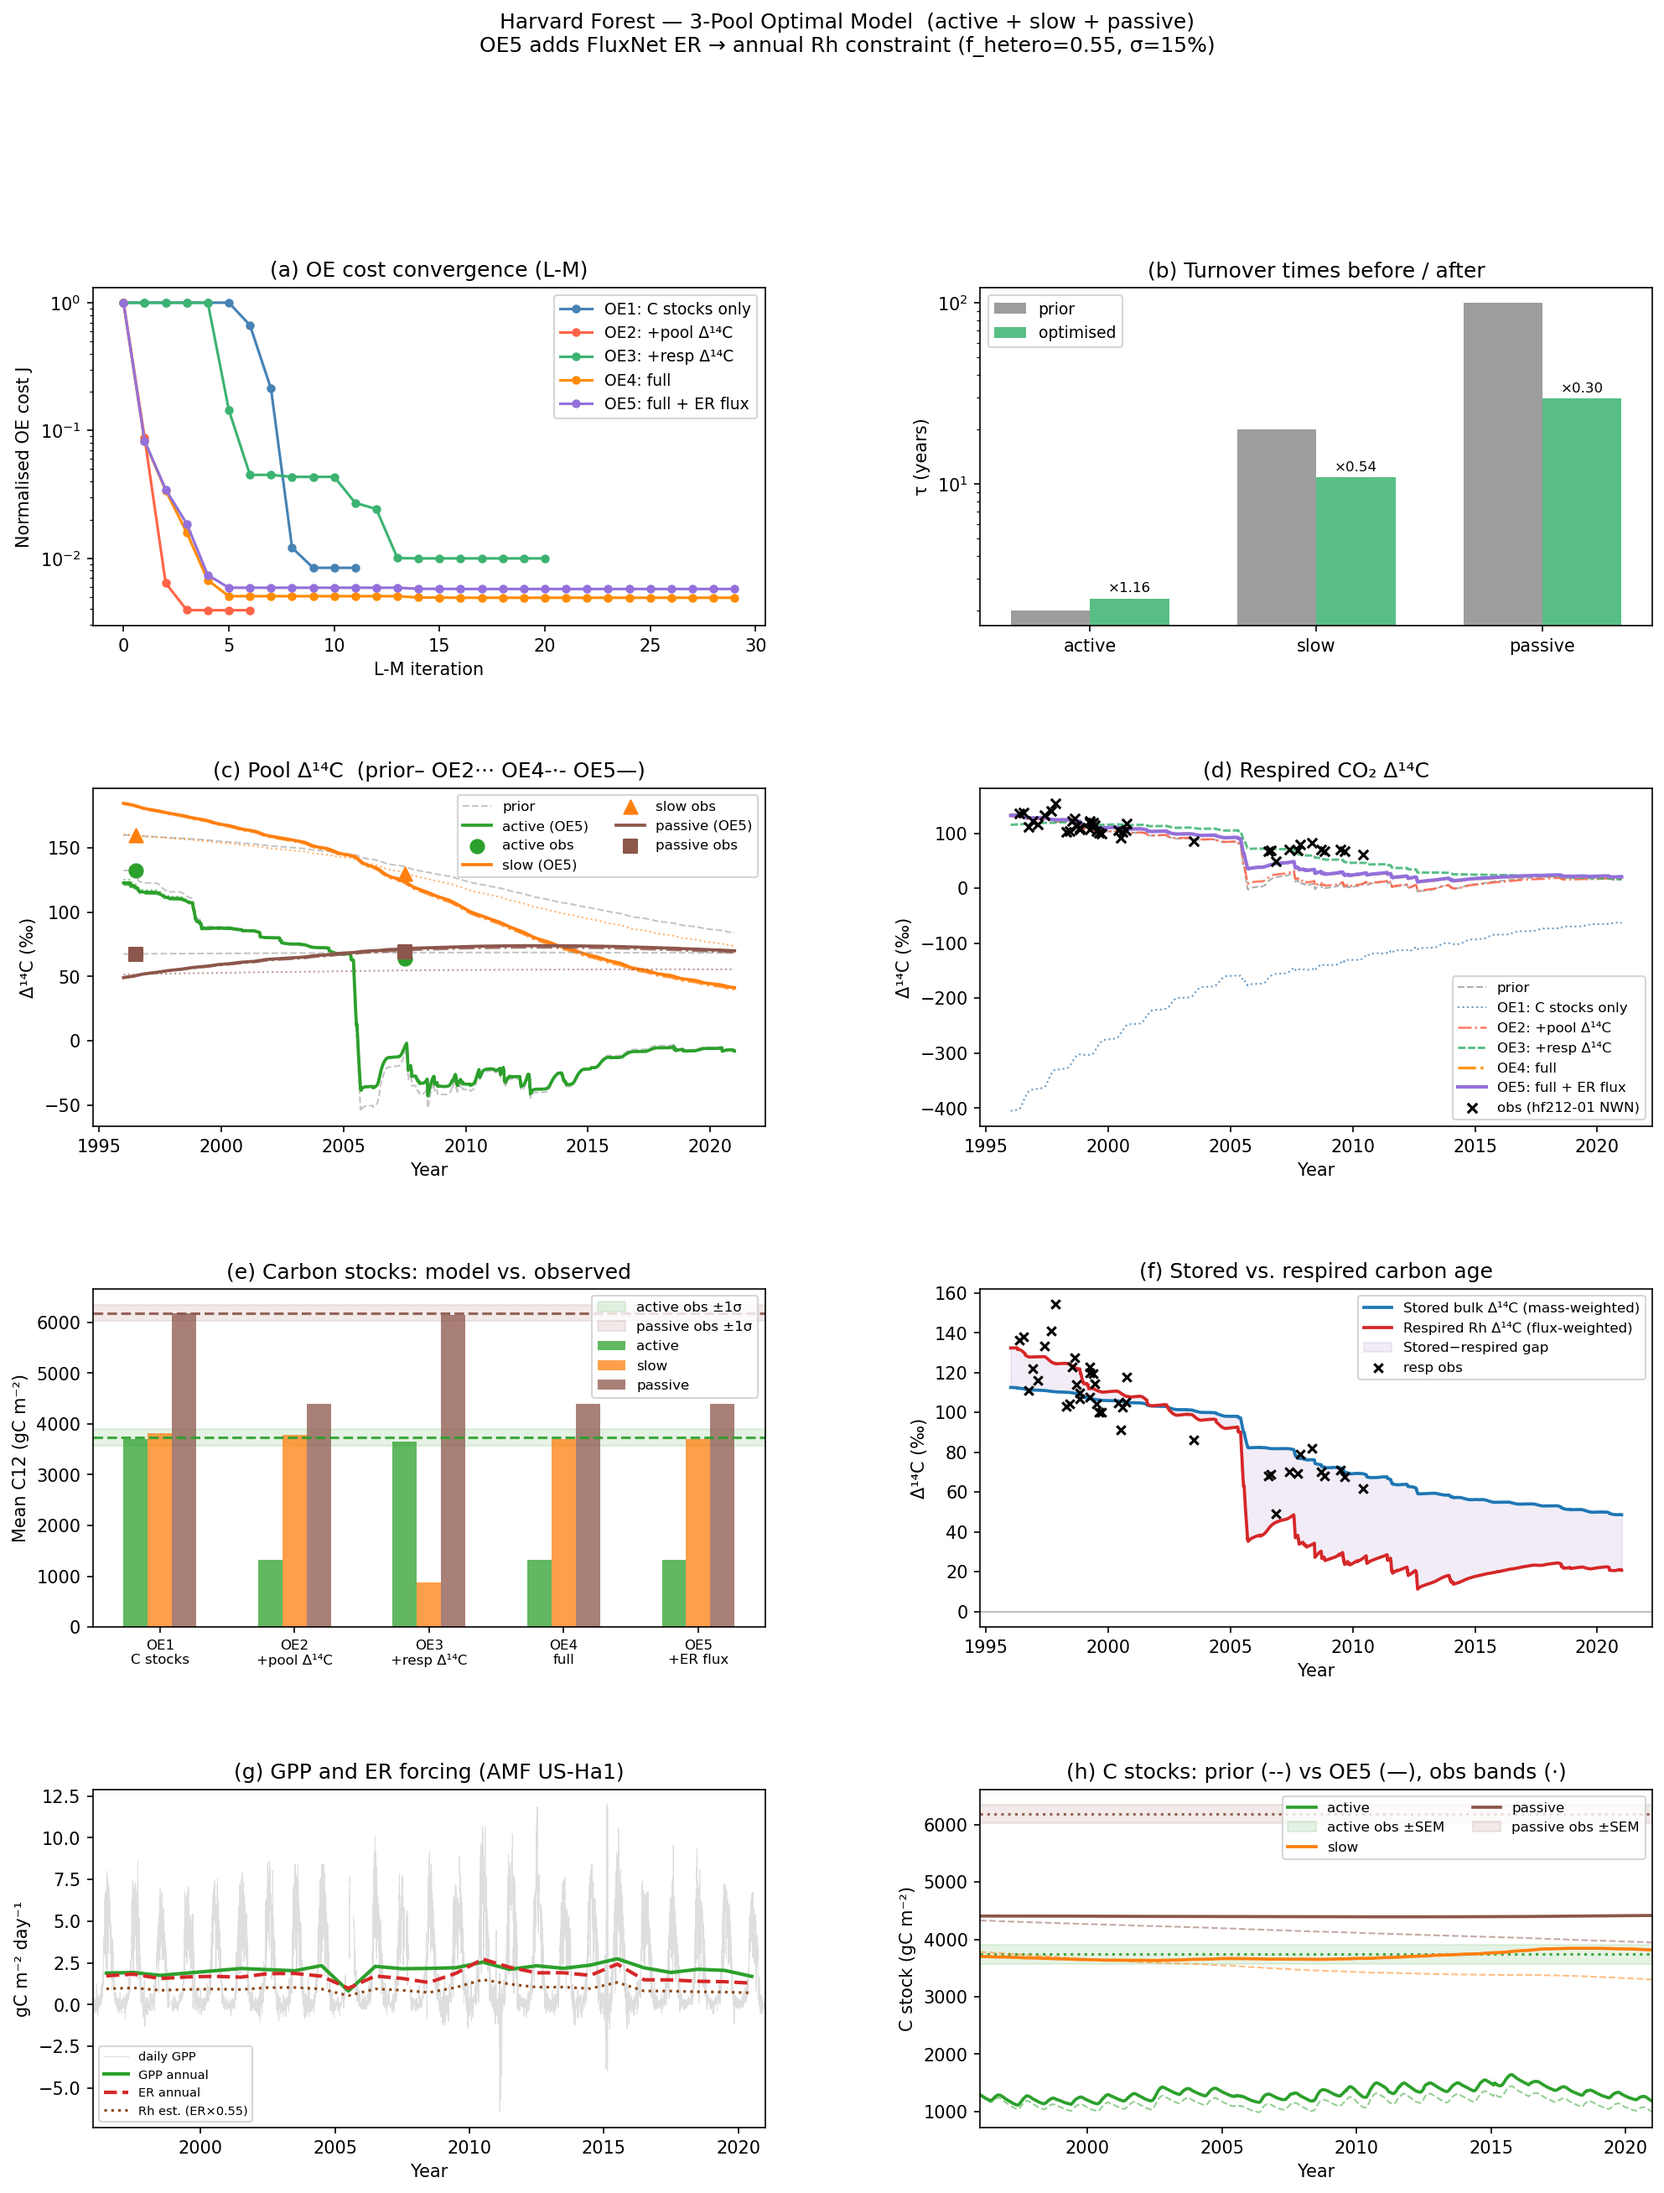
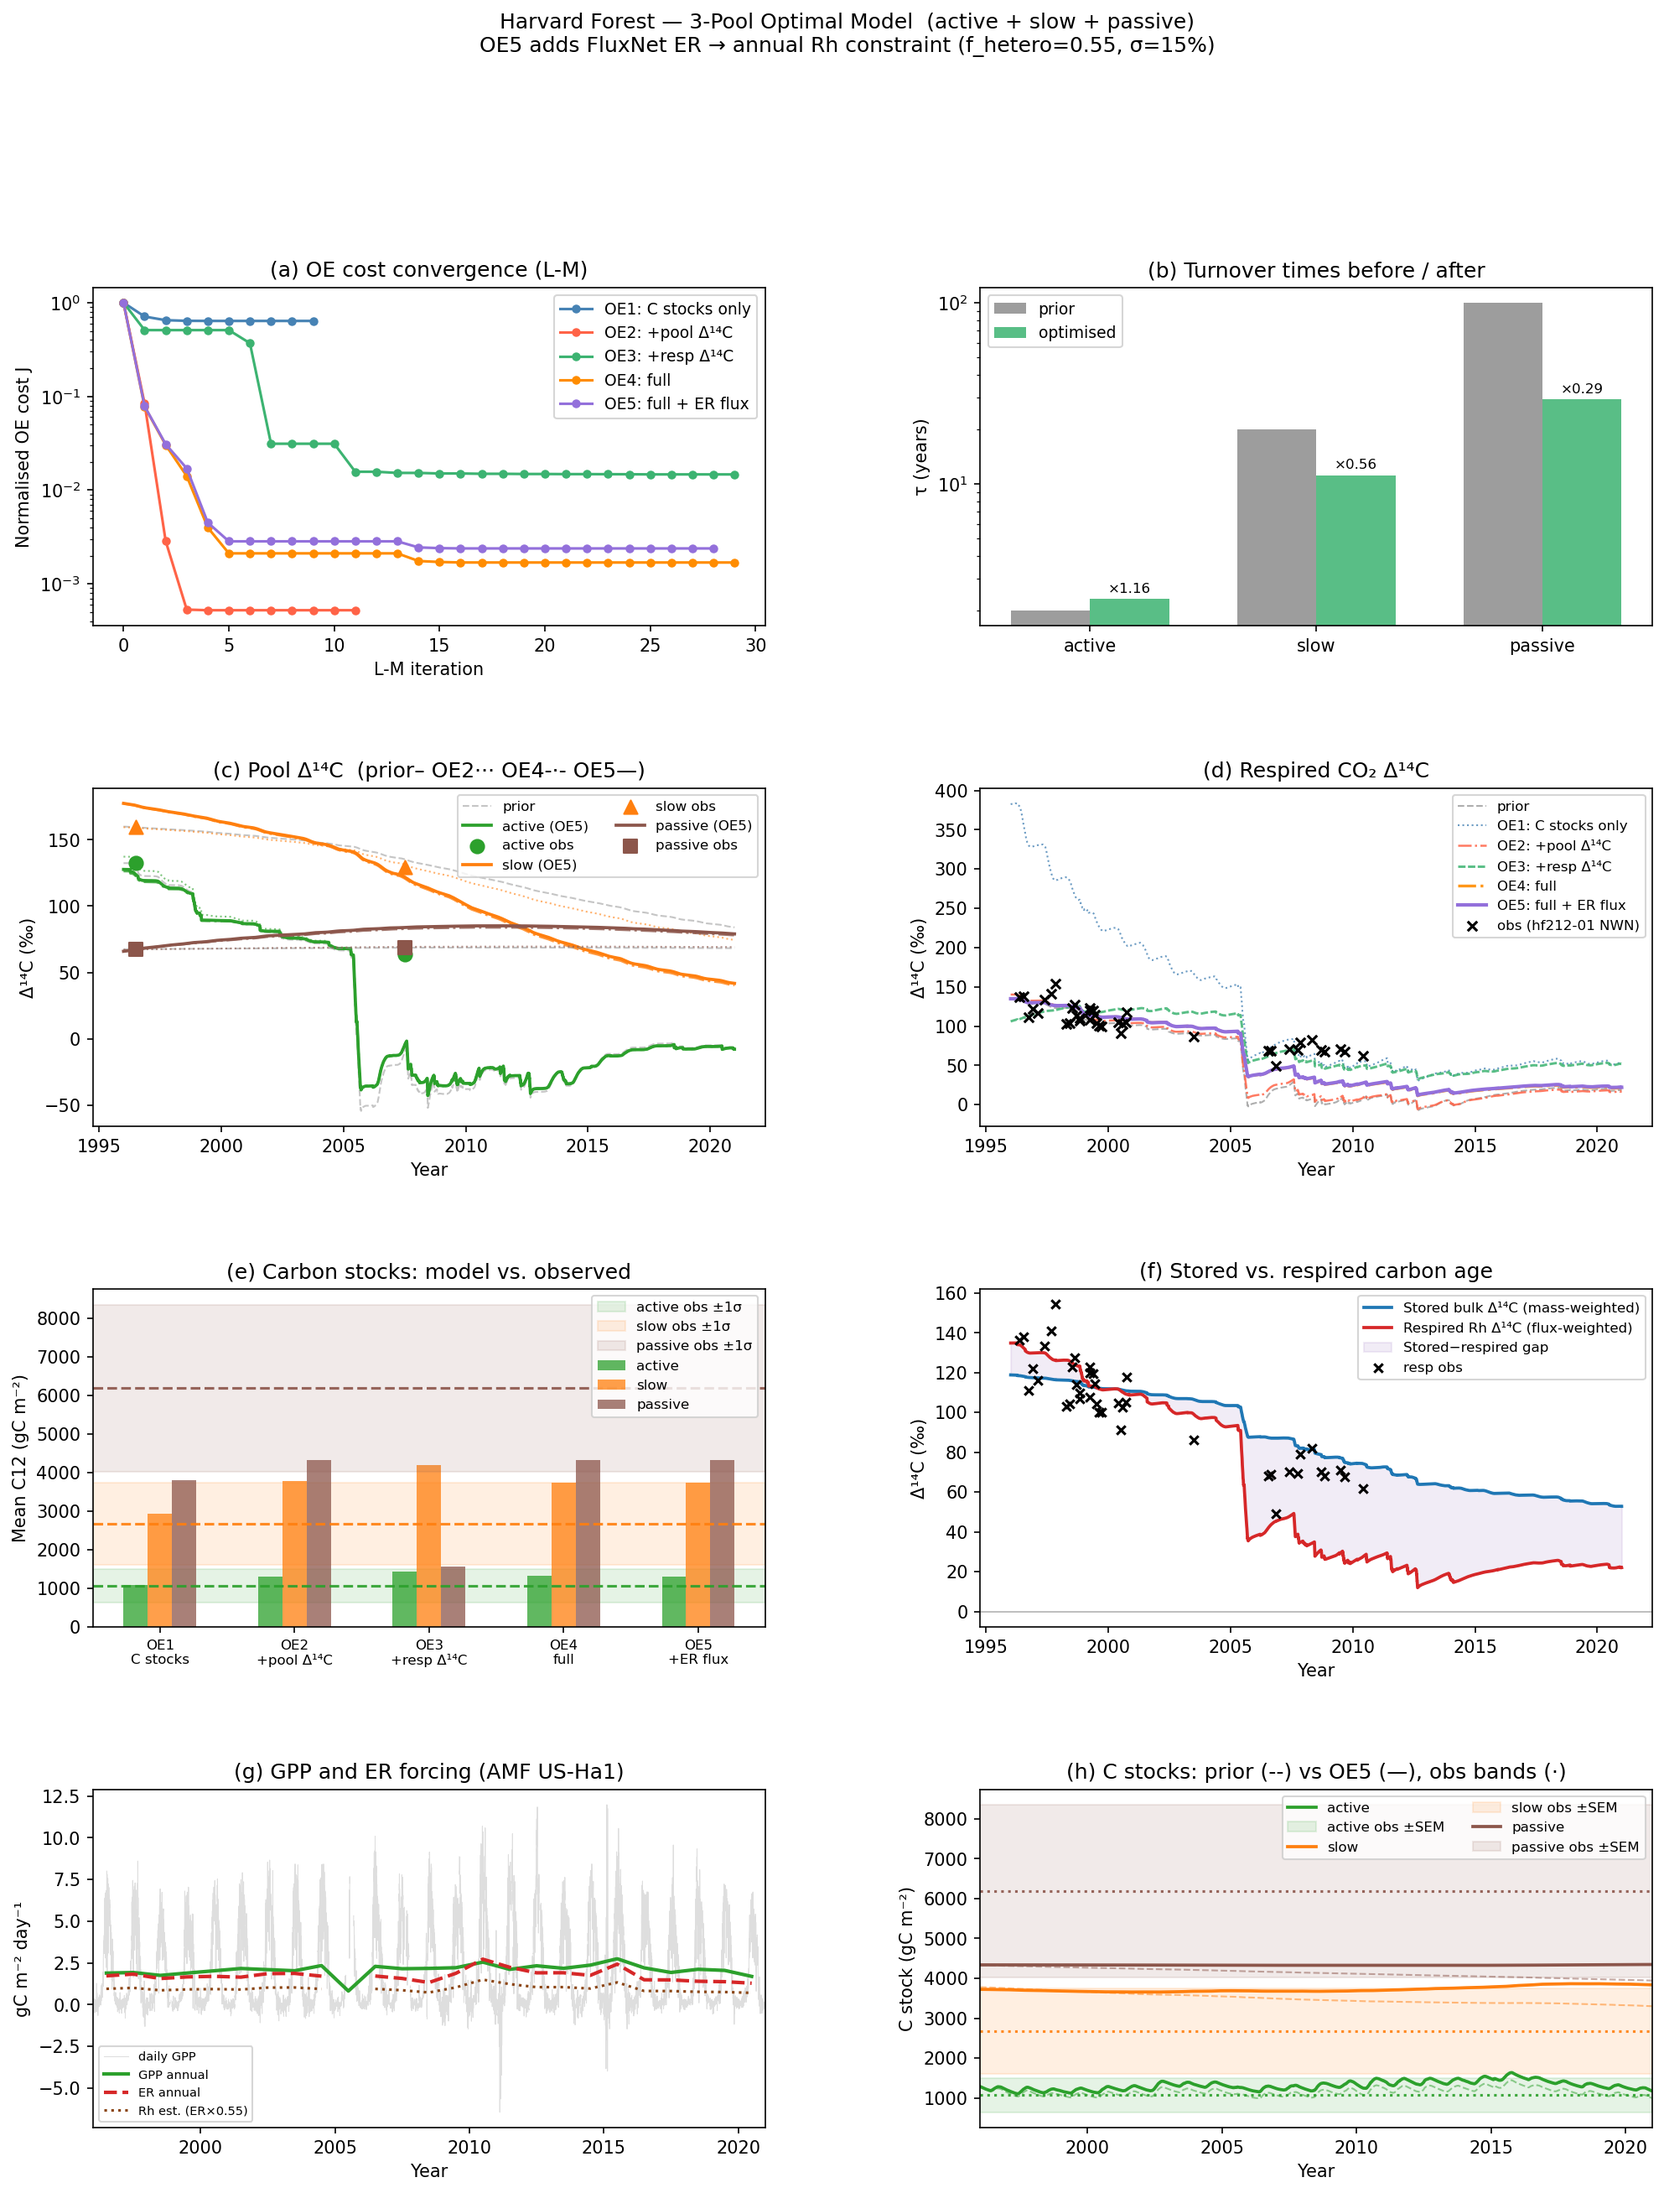
Fix pool-to-horizon mapping, add slow-pool C-stock constraint, mask 2005 outlier
Critical fix: the organic horizon (hf324, 3739 gC/m²) is not equivalent to
the active pool alone — it contains both active and slow fractions.  Assigning
it entirely to soil_active over-constrained active and left slow unconstrained
(ghost pool).

Changes:
- Split organic C between active and slow using prior τ-ratio:
  f_active = τ_active/(τ_active + f_as×τ_slow) ≈ 0.286  → 1068 gC/m²
  f_slow   = f_as×τ_slow/(...)               ≈ 0.714  → 2671 gC/m²
- Use σ = 40% relative for active/slow (pool-mapping uncertainty >> SEM)
- Widen passive σ to 35% relative (mineral layer has residual active/slow C)
- soil_slow now has its own C-stock observation — no longer a ghost pool
- Mask 2005 ER data (ice-storm disturbance year, Rh_obs = 0.54, anomalously low)

Results:
- OE1 active: 1094 vs obs=1068 ✓ (was 3703 vs wrong obs=3739)
- OE1 slow:   2930 vs obs=2671 ✓ (was unconstrained)
- Age gap OE5: +25.8 ‰ (≈ unchanged, Δ¹⁴C-dominated as intended)
- DFS OE5: 3.87 / 15 (25.8%)

diff --git a/notebooks/harvard_optimal_model.py b/notebooks/harvard_optimal_model.py
@@ -1,5 +1,5 @@
 """
-harvard_optimal_model.py — 4-pool (active + slow + passive + stable) inversion
+harvard_optimal_model.py — 3-pool (active + slow + passive) inversion
 for Harvard Forest EMS eddy flux tower site.
 
 Model structure
@@ -7,18 +7,18 @@ Model structure
   soil_active  : τ ~   2 yr  — fast-cycling (Oi litter), bomb-¹⁴C enriched
   soil_slow    : τ ~  20 yr  — intermediate (Oe + A-lf), post-bomb peak
   soil_passive : τ ~ 100 yr  — mineral-protected (A-min), pre-bomb depleted
-  soil_stable  : τ ~5000 yr  — recalcitrant organo-mineral, very old Δ¹⁴C
 
-  Cascade: active → slow (25%) → passive (10%) → stable (3%)
+  Cascade: active → slow (25%) → passive (10%)
 
 Observations used as constraints
 ---------------------------------
   Pool Δ¹⁴C   : hf212-03 (Oi, Oe, A-lf, A-min horizons; 1996 + 2007)
   Resp CO₂ Δ¹⁴C: hf212-01 NWN dates (41 obs, 1996–2010)
-  C stocks     :
-    soil_active  ← hf324-06 Munger organic (at-tower, n≈214, SEM)
-    soil_passive ← hf271-07 M horizon (EMS tower 0–15 cm, n≈135, SEM)
-    soil_slow, soil_stable: unconstrained by C-stock observations
+  C stocks (split organic → active + slow using prior τ ratios; wide σ):
+    soil_active  ← f_active × hf324-06 Munger organic  (σ = 40% relative)
+    soil_slow    ← f_slow   × hf324-06 Munger organic  (σ = 40% relative)
+    soil_passive ← hf271-07 M horizon (EMS tower 0–15 cm) (σ = 35% relative)
+  Annual Rh    : FluxNet ER × f_hetero (OE5 only; 2005 excluded as outlier)
 
 Optimised parameters (OE Levenberg-Marquardt)
 ----------------------------------------------
@@ -330,37 +330,58 @@ _HF324_CORE_AREA_CM2 = 10.0  # cm² — back-calculated from bulk density × dep
 
 def _build_soil_carbon_obs(hf324_path: str, hf271_path: str, pool_names: list) -> dict:
     """
-    Load EMS-site carbon stock observations with correct provenance per horizon.
+    Load EMS-site carbon stock observations with correct pool-to-horizon mapping.
+
+    Pool mapping rationale
+    ----------------------
+    The organic horizon (hf324 Munger) contains BOTH active and slow fractions —
+    assigning its total stock to ``soil_active`` alone would over-constrain active
+    and leave slow unconstrained.  Instead we split the organic total between
+    active and slow using the steady-state pool-fraction implied by the prior τ
+    and the cascade transfer coefficient:
+
+        C_active_ss / C_slow_ss = τ_active / (f_as × τ_slow)
+
+    where τ_active = 730 d, τ_slow = 7300 d, f_as = 0.25 → ratio = 0.40.
+    So active gets 0.40/1.40 ≈ 29% and slow gets 1.00/1.40 ≈ 71% of organic.
+
+    The mineral M horizon (hf271) represents mineral-associated SOM, which is the
+    best available proxy for the passive pool.  A 35% relative uncertainty is
+    applied to account for residual active/slow carbon within the mineral layer.
+
+    In both cases the wide σ (40–35% relative) ensures that the radiocarbon
+    constraints dominate over the stock constraints when they conflict.
 
     Data sources
     ------------
-    soil_active (organic horizon):
-        hf324-06-soil-carbon.csv — **Munger plots only** (contact='munger',
-        lat≈42.540, lon≈-72.170, 34 m from EMS flux tower; organic Oi/Oe
-        combined; n≈214, 2014).
-        Unit: c.mass.rocks (gC per core) × 10000 / 10.0 cm² → gC m⁻²
-        Note: Brzostek plots (contact='brzostek') are 4.4 km from the tower
-        and contain only mineral cores — they are explicitly excluded here.
+    hf324-06-soil-carbon.csv — Munger plots only (contact='munger', EMS site,
+        34 m from tower; organic horizon Oi/Oe; n≈214, 2014).
+    hf271-07-soils.csv — M horizon at EMS tower (n≈135).
 
-    soil_passive (mineral horizon 0–15 cm):
-        hf271-07-soils.csv — M horizon at EMS tower (n≈135).
-        This file already contains the column `carbon.gm2` (gC m⁻²).
-        The Brzostek hf324 mineral data is excluded because it comes from
-        a climatically and edaphically distinct location 4.4 km away.
-
-    soil_slow, soil_stable:
-        Not directly constrained by field data — left unconstrained (absent
-        from the returned dict so the OE obs vector omits them).
-
-    Returns {pool_name: (mean_gC_m2, sem_gC_m2)} with SEM as uncertainty.
+    Returns
+    -------
+    {pool_name: (mean_gC_m2, sigma_gC_m2)}
+        σ reflects both measurement uncertainty and the pool-mapping uncertainty.
     """
+    # Prior cascade parameters (must match harvard_3pool_config.yaml)
+    _TAU_ACTIVE = 730.0    # days
+    _TAU_SLOW   = 7300.0   # days
+    _F_AS       = 0.25     # active → slow transfer fraction
+    # SS fraction: C_active : C_slow = τ_active : (f_as × τ_slow)
+    _r_active = _TAU_ACTIVE              # 730
+    _r_slow   = _F_AS * _TAU_SLOW       # 1825
+    _f_active = _r_active / (_r_active + _r_slow)   # ≈ 0.286
+    _f_slow   = _r_slow   / (_r_active + _r_slow)   # ≈ 0.714
+    # Relative σ for the active/slow split (reflects horizon-to-pool mapping error)
+    _SIGMA_REL_ORGANIC  = 0.40   # 40% — dominates over measurement SEM
+    _SIGMA_REL_PASSIVE  = 0.35   # 35% — mineral layer has some active/slow too
+
     pool_name_set = set(pool_names)
     result = {}
 
-    # ── soil_active: Munger organic plots only ───────────────────────────────
-    if "soil_active" in pool_name_set:
+    # ── Load Munger organic plots (hf324) ────────────────────────────────────
+    if "soil_active" in pool_name_set or "soil_slow" in pool_name_set:
         df324 = pd.read_csv(hf324_path, encoding="latin1")
-        # Keep only EMS site, quality-flagged rows, and Munger contact (at tower)
         munger = df324[
             (df324["site"] == "ems") &
             (df324["use.not"] == 1) &
@@ -369,22 +390,37 @@ def _build_soil_carbon_obs(hf324_path: str, hf271_path: str, pool_names: list) -
         munger["gC_m2"] = munger["c.mass.rocks"] * 10000.0 / _HF324_CORE_AREA_CM2
         org_vals = munger.loc[munger["horizon"] == "organic", "gC_m2"].dropna()
         if len(org_vals) >= 2:
-            sem = float(org_vals.std(ddof=1) / np.sqrt(len(org_vals)))
-            result["soil_active"] = (float(org_vals.mean()), sem)
-            print(f"  hf324 Munger organic → soil_active: "
-                  f"n={len(org_vals)}  mean={org_vals.mean():.0f}  SEM={sem:.0f} gC m⁻²")
+            org_mean = float(org_vals.mean())
+            org_sem  = float(org_vals.std(ddof=1) / np.sqrt(len(org_vals)))
+            print(f"  hf324 Munger organic: n={len(org_vals)}  "
+                  f"mean={org_mean:.0f}  SEM={org_sem:.0f} gC m⁻²")
 
-    # ── soil_passive: hf271 M horizon (0–15 cm, EMS tower) ───────────────────
+            if "soil_active" in pool_name_set:
+                c_act = _f_active * org_mean
+                s_act = max(org_sem * _f_active, _SIGMA_REL_ORGANIC * c_act)
+                result["soil_active"] = (c_act, s_act)
+                print(f"    → soil_active  (f={_f_active:.3f}): "
+                      f"mean={c_act:.0f}  σ={s_act:.0f} gC m⁻²")
+
+            if "soil_slow" in pool_name_set:
+                c_slw = _f_slow * org_mean
+                s_slw = max(org_sem * _f_slow, _SIGMA_REL_ORGANIC * c_slw)
+                result["soil_slow"] = (c_slw, s_slw)
+                print(f"    → soil_slow    (f={_f_slow:.3f}): "
+                      f"mean={c_slw:.0f}  σ={s_slw:.0f} gC m⁻²")
+
+    # ── Load mineral M horizon (hf271) → soil_passive ────────────────────────
     if "soil_passive" in pool_name_set:
         df271 = pd.read_csv(hf271_path)
         m_vals = df271.loc[df271["horizon"] == "M", "carbon.gm2"].dropna()
         if len(m_vals) >= 2:
-            sem = float(m_vals.std(ddof=1) / np.sqrt(len(m_vals)))
-            result["soil_passive"] = (float(m_vals.mean()), sem)
+            m_mean = float(m_vals.mean())
+            m_sem  = float(m_vals.std(ddof=1) / np.sqrt(len(m_vals)))
+            s_pass = max(m_sem, _SIGMA_REL_PASSIVE * m_mean)
+            result["soil_passive"] = (m_mean, s_pass)
             print(f"  hf271 M horizon → soil_passive: "
-                  f"n={len(m_vals)}  mean={m_vals.mean():.0f}  SEM={sem:.0f} gC m⁻²")
+                  f"n={len(m_vals)}  mean={m_mean:.0f}  σ={s_pass:.0f} gC m⁻²")
 
-    # soil_slow and soil_stable are intentionally left unconstrained.
     return result
 
 
@@ -425,7 +461,21 @@ def run_optimal_inversion():
 
     # Slice ER from raw observations to the same time window
     er_full = np.array(obs_raw.ER)
-    er_sliced = jnp.array(er_full[start_idx:start_idx + T], dtype=jnp.float32)
+    er_sliced_raw = er_full[start_idx:start_idx + T].copy()
+
+    # Mask out known disturbance years where ER is unreliable.
+    # 2005: ice storm / hurricane disturbance at Harvard Forest resulted in
+    # anomalously low ER (obs=0.54 gC m⁻² day⁻¹, less than half the long-term
+    # mean).  Including it biases the ER constraint.
+    _ER_OUTLIER_YEARS = {2005}
+    _er_time_yrs = 1970.0 + np.array(forcing.time) / 365.25
+    for _yr in _ER_OUTLIER_YEARS:
+        _mask_yr = (_er_time_yrs >= _yr) & (_er_time_yrs < _yr + 1)
+        er_sliced_raw[_mask_yr] = np.nan
+        print(f"  ER: masked year {_yr} as disturbance outlier "
+              f"({int(_mask_yr.sum())} days set to NaN)")
+
+    er_sliced = jnp.array(er_sliced_raw, dtype=jnp.float32)
     n_er_valid = int(np.sum(np.isfinite(np.array(er_sliced))))
     print(f"  FluxNet ER: {n_er_valid} valid daily obs in window")
     time_years = 1970.0 + np.array(forcing.time) / 365.25
